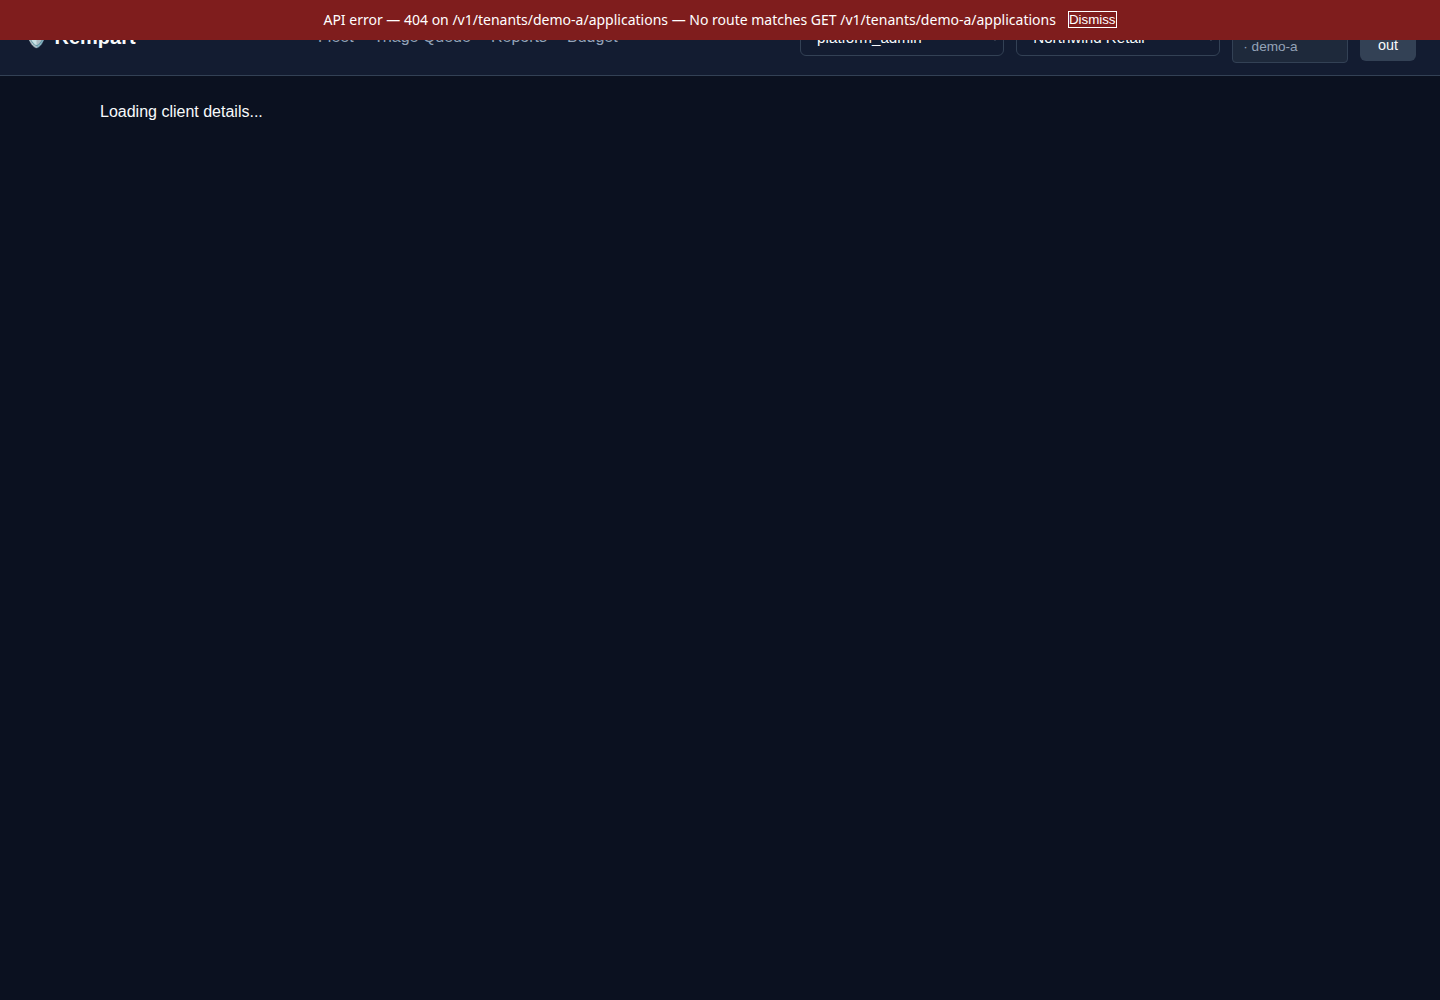
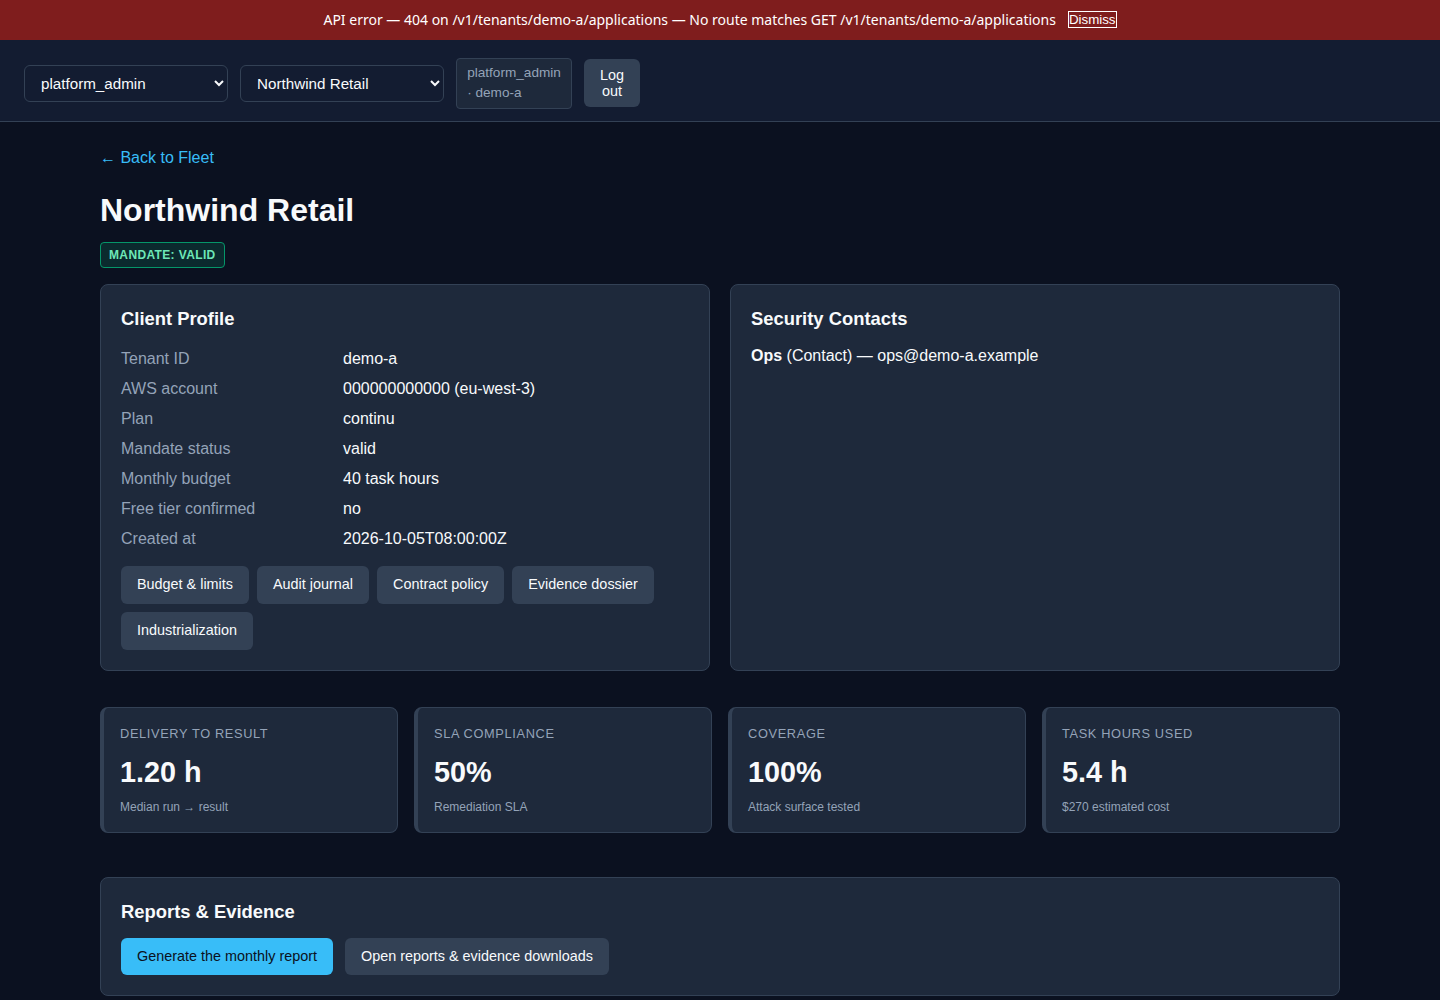
feat(demo): une démo 100 % gratuite, prouvée par un test, et des captures à jour
La démo ne doit RIEN coûter — ni à l'évaluateur, ni au projet. C'est désormais
établi par des preuves, pas par des mots :

- nouveau test  : toute
  connexion réseau est coupée pendant l'appel, et la démo répond quand même sur
  /v1/tenants, /evidence, /industrialization, /forecast, /policy et /audit. Un
  test voisin vérifie que le dossier de preuves local est scellé et que son
  empreinte se recalcule ;
- le README affiche les 4 pages de gouvernance (preuve d'audit scellée,
  industrialisation, journal d'audit, politique de correction) désormais
  alimentées par de vraies données, et explique d'où elles viennent (calculées
  par le code de production, pas recopiées) ;
-  capture ces 4 pages, et les 13 captures du README
  sont régénérées depuis la démo LOCALE (donc reproductibles par n'importe qui,
  sans compte AWS) ;
- les instructions aux juges posent explicitement le « 0 $ » (avec le test qui
  l'établit) et le checklist de soumission distingue enfin l'URL gratuite
  (GitHub Pages) du déploiement AWS optionnel, qui est facturé.

900+ tests verts, ruff clean.

diff --git a/backend/tests/scripts/test_serve_local.py b/backend/tests/scripts/test_serve_local.py
@@ -5,6 +5,7 @@ requête HTTP -> événement API Gateway v2, le mapping des en-têtes de démo e
 claims Cognito, le preflight CORS, la route inconnue (404) et le mode --check.
 """
 
+import hashlib
 import importlib.util
 import json
 import subprocess
@@ -179,3 +180,51 @@ def test_committed_dataset_is_used_verbatim(tmp_path):
     """Le serveur sert le JSON versionné, pas une copie divergente."""
     dataset = serve_local.load_dataset()
     assert dataset == json.loads(serve_local.DEFAULT_DATASET.read_text(encoding="utf-8"))
+
+
+def test_la_demo_locale_ne_tente_aucun_appel_reseau(monkeypatch, env):
+    """PREUVE « 0 € » : la démo ne dépend d'aucun service distant.
+
+    Toute connexion réseau est coupée pendant l'appel : si la démo répond
+    encore, c'est qu'elle ne parle à aucun AWS — donc qu'elle ne facture rien.
+    Le serveur de démo n'utilise qu'un `FakeStore` et un
+    `FakeSecurityAgentClient`, tous deux en mémoire.
+    """
+    import socket
+
+    def _blocked(*args, **kwargs):
+        raise AssertionError("la démo a tenté une connexion réseau")
+
+    monkeypatch.setattr(socket.socket, "connect", _blocked)
+    monkeypatch.setattr(socket, "create_connection", _blocked)
+
+    store, sa, settings = env
+    paths = (
+        "/v1/tenants",
+        "/v1/tenants/demo-a/evidence",
+        "/v1/tenants/demo-a/industrialization",
+        "/v1/tenants/demo-a/forecast",
+        "/v1/tenants/demo-a/policy",
+        "/v1/audit",
+    )
+    for path in paths:
+        response = serve_local.dispatch(
+            store, sa, settings, method="GET", raw_path=path,
+            headers={"X-Demo-Role": "platform_admin"},
+        )
+        assert response["statusCode"] == 200, (path, response["statusCode"])
+
+
+def test_le_dossier_de_preuves_de_la_demo_est_scelle_et_verifiable(env):
+    """La démo locale montre la même preuve que la production : une empreinte."""
+    store, sa, settings = env
+    response = serve_local.dispatch(
+        store, sa, settings, method="GET", raw_path="/v1/tenants/demo-a/evidence",
+        headers={"X-Demo-Role": "platform_admin"},
+    )
+    pack = _body(response)
+    digest = pack["integrity"]["digest"]
+    assert len(digest) == 64
+    payload = {k: v for k, v in pack.items() if k not in ("integrity", "s3_key")}
+    canonical = json.dumps(payload, indent=2, sort_keys=True, ensure_ascii=False, default=str)
+    assert hashlib.sha256(canonical.encode("utf-8")).hexdigest() == digest

diff --git a/docs/submission-checklist.md b/docs/submission-checklist.md
@@ -16,7 +16,7 @@
 |---|---|---|---|
 | 1 | Track 2 selected, AWS AI service named | **to do** (form) | Text ready: [`devpost-submission.md`](devpost-submission.md). Service to name: AWS Continuum (penetration testing) + Amazon Bedrock via Strands Agents on AgentCore Runtime. |
 | 2 | Description in English: features, problem, measured outcomes | **done** | [`devpost-submission.md`](devpost-submission.md) § Description, How we built it, three measured outcomes. |
-| 3 | Public URL of the portal, with demo credentials in the test instructions | **done** | Two live URLs, both free: **https://d1o2xnfrq8xomh.cloudfront.net** (CloudFront + S3, deployed stack `RempartPortalStack`, measured HTTP 200 on `/`, on the JS/CSS assets and on the deep route `/fleet`) and **https://tradoooo.github.io/rempart/** (GitHub Pages). Both serve the **offline demo mode** on the frozen dataset — no real customer data on a public URL, and the portal says so with a banner. Real Cognito sign-in is not active yet: the user pool `eu-north-1_VkUAsvgSR` has **no Cognito domain** and the client has no callback URLs, so the PKCE flow cannot run. The 4 steps to enable it are written in [`portal-deployment.md`](portal-deployment.md). |
+| 3 | Public URL of the portal, with demo credentials in the test instructions | **done** | Two live URLs. The **free one — and the one to use for judging — is **https://tradoooo.github.io/rempart/** (GitHub Pages): no backend, no AWS account, **0 $**, no outbound call, no real customer data on a public URL. The second, **https://d1o2xnfrq8xomh.cloudfront.net** (CloudFront + S3, deployed stack `RempartPortalStack`, measured HTTP 200 on `/`, on the JS/CSS assets and on the deep route `/fleet`), is the optional AWS-backed deployment — it is the billable stack, not the demo. Both serve the **offline demo mode** on the frozen dataset — no real customer data on a public URL, and the portal says so with a banner. Real Cognito sign-in is not active yet: the user pool `eu-north-1_VkUAsvgSR` has **no Cognito domain** and the client has no callback URLs, so the PKCE flow cannot run. The 4 steps to enable it are written in [`portal-deployment.md`](portal-deployment.md). |
 | 4 | Private repo shared with `testing@devpost.com` and `aws-msp@amazon.com` | **decision needed** | The repository is currently **public** (it was created private; the visibility changed outside this work). The specification asks for a *private* repo shared with the two judge accounts. A public repo is generally accepted by Devpost, but it exposes the French specification — commercial strategy, pricing hypotheses, schedule. **Your call**: keep it public, or set it back to private (GitHub Pages keeps working on a Pro plan) and invite the judge accounts at submission time. |
 | 5 | The code really calls an AWS AI service at runtime | **blocked** | Calls are written and unit-tested against the official API reference ([`docs/api-verification.md`](api-verification.md)), but never executed against AWS. Needs credentials + one real `StartPentestJob`. Note: the free trial starts at the **first** pentest — the spec (§ 16.2) says do not run it before **23 November 2026** so the 2-month trial still covers judging on 22 January 2027. |
 | 6 | Video ~3 minutes, public on YouTube, English, no third-party brand or music | **out of scope for the agent** | Script written and timed: [`video-script.md`](video-script.md). The user records and edits. |

diff --git a/README.md b/README.md
@@ -79,6 +79,14 @@ account, no cost) — regenerate them at any time with
 |---|---|
 | ![Finding detail](docs/img/05-finding.png) | ![Budget](docs/img/07-budget.png) |
 
+| Evidence dossier (scellé, empreinte recalculable) | Industrialization |
+|---|---|
+| ![Evidence dossier](docs/img/09-evidence.png) | ![Industrialization](docs/img/10-industrialization.png) |
+
+| Audit journal | Contract correction policy |
+|---|---|
+| ![Audit journal](docs/img/11-audit.png) | ![Policy](docs/img/12-policy.png) |
+
 <details>
 <summary>Every other screen (tenant, application, run, reports, login)</summary>
 
@@ -88,7 +96,7 @@ account, no cost) — regenerate them at any time with
 | Application | ![Application](docs/img/03-application.png) |
 | Run (pentest job) | ![Run](docs/img/04-run.png) |
 | Monthly reports | ![Reports](docs/img/08-reports.png) |
-| Login / demo mode | ![Login](docs/img/09-login.png) |
+| Login / demo mode | ![Login](docs/img/13-login.png) |
 
 </details>
 
@@ -191,10 +199,23 @@ cd portal && npm ci && npm run dev:local           # portal pointed at the local
 
 The local server serves the frozen dataset (`demo/seed/demo-dataset.json`:
 2 customers, 2 applications, 6 runs, 6 findings across the whole lifecycle,
-10 analyst decisions, budgets, 2 monthly reports) through the **real** API
-handlers and the **real** authorisation layer — so tenant isolation is
+10 analyst decisions, budgets, 2 monthly reports, **22 audit events, 2 sealed
+evidence dossiers (SHA-256 fingerprint a third party can recompute),
+industrialization metrics, a budget forecast and the correction policy**) through
+the **real** API handlers and the **real** authorisation layer — so tenant isolation is
 enforced for real: a `client_security` token from tenant A gets `403` on every
 tenant-B route. No AWS call is made, so nothing is billed.
+
+### Coût de la démo : 0 €
+
+Les deux options ci-dessous ne facturent **rien** : aucun compte AWS, aucun
+appel sortant, aucune donnée client sur une URL publique. Ce n'est pas une
+promesse mais un **test** : il coupe toute connexion réseau et vérifie que la
+démo répond quand même
+(`backend/tests/scripts/test_serve_local.py::test_la_demo_locale_ne_tente_aucun_appel_reseau`).
+
+Le déploiement AWS complet (Cognito, DynamoDB, Step Functions, Security Agent)
+est **optionnel** : il démontre le produit branché, pas la démo.
 
 ### Option B — public URL, live now
 

diff --git a/docs/judging-test-instructions.md b/docs/judging-test-instructions.md
@@ -19,6 +19,15 @@ pull request, and closes the finding only when a retest proves it is gone.
 > `scripts/serve_local.py`. No backend, no AWS account, no cost, and no real
 > customer data on a public URL. The portal displays an "OFFLINE DEMO MODE"
 > banner so nobody mistakes it for live data.
+>
+> **This demo costs 0 $.** It is not a promise but a test: the local demo server
+> is exercised with every network connection blocked, and it still answers
+> (`backend/tests/scripts/test_serve_local.py::test_la_demo_locale_ne_tente_aucun_appel_reseau`).
+> The frozen dataset is computed by the production code itself
+> (`rempart.reports.*`), so the figures shown — 22 audit events, sealed evidence
+> dossiers with a recomputable SHA-256 fingerprint, industrialization metrics,
+> the budget forecast and the correction policy — are the ones the deployed
+> stack would produce on the same data.
 
 ## Demo credentials
 
